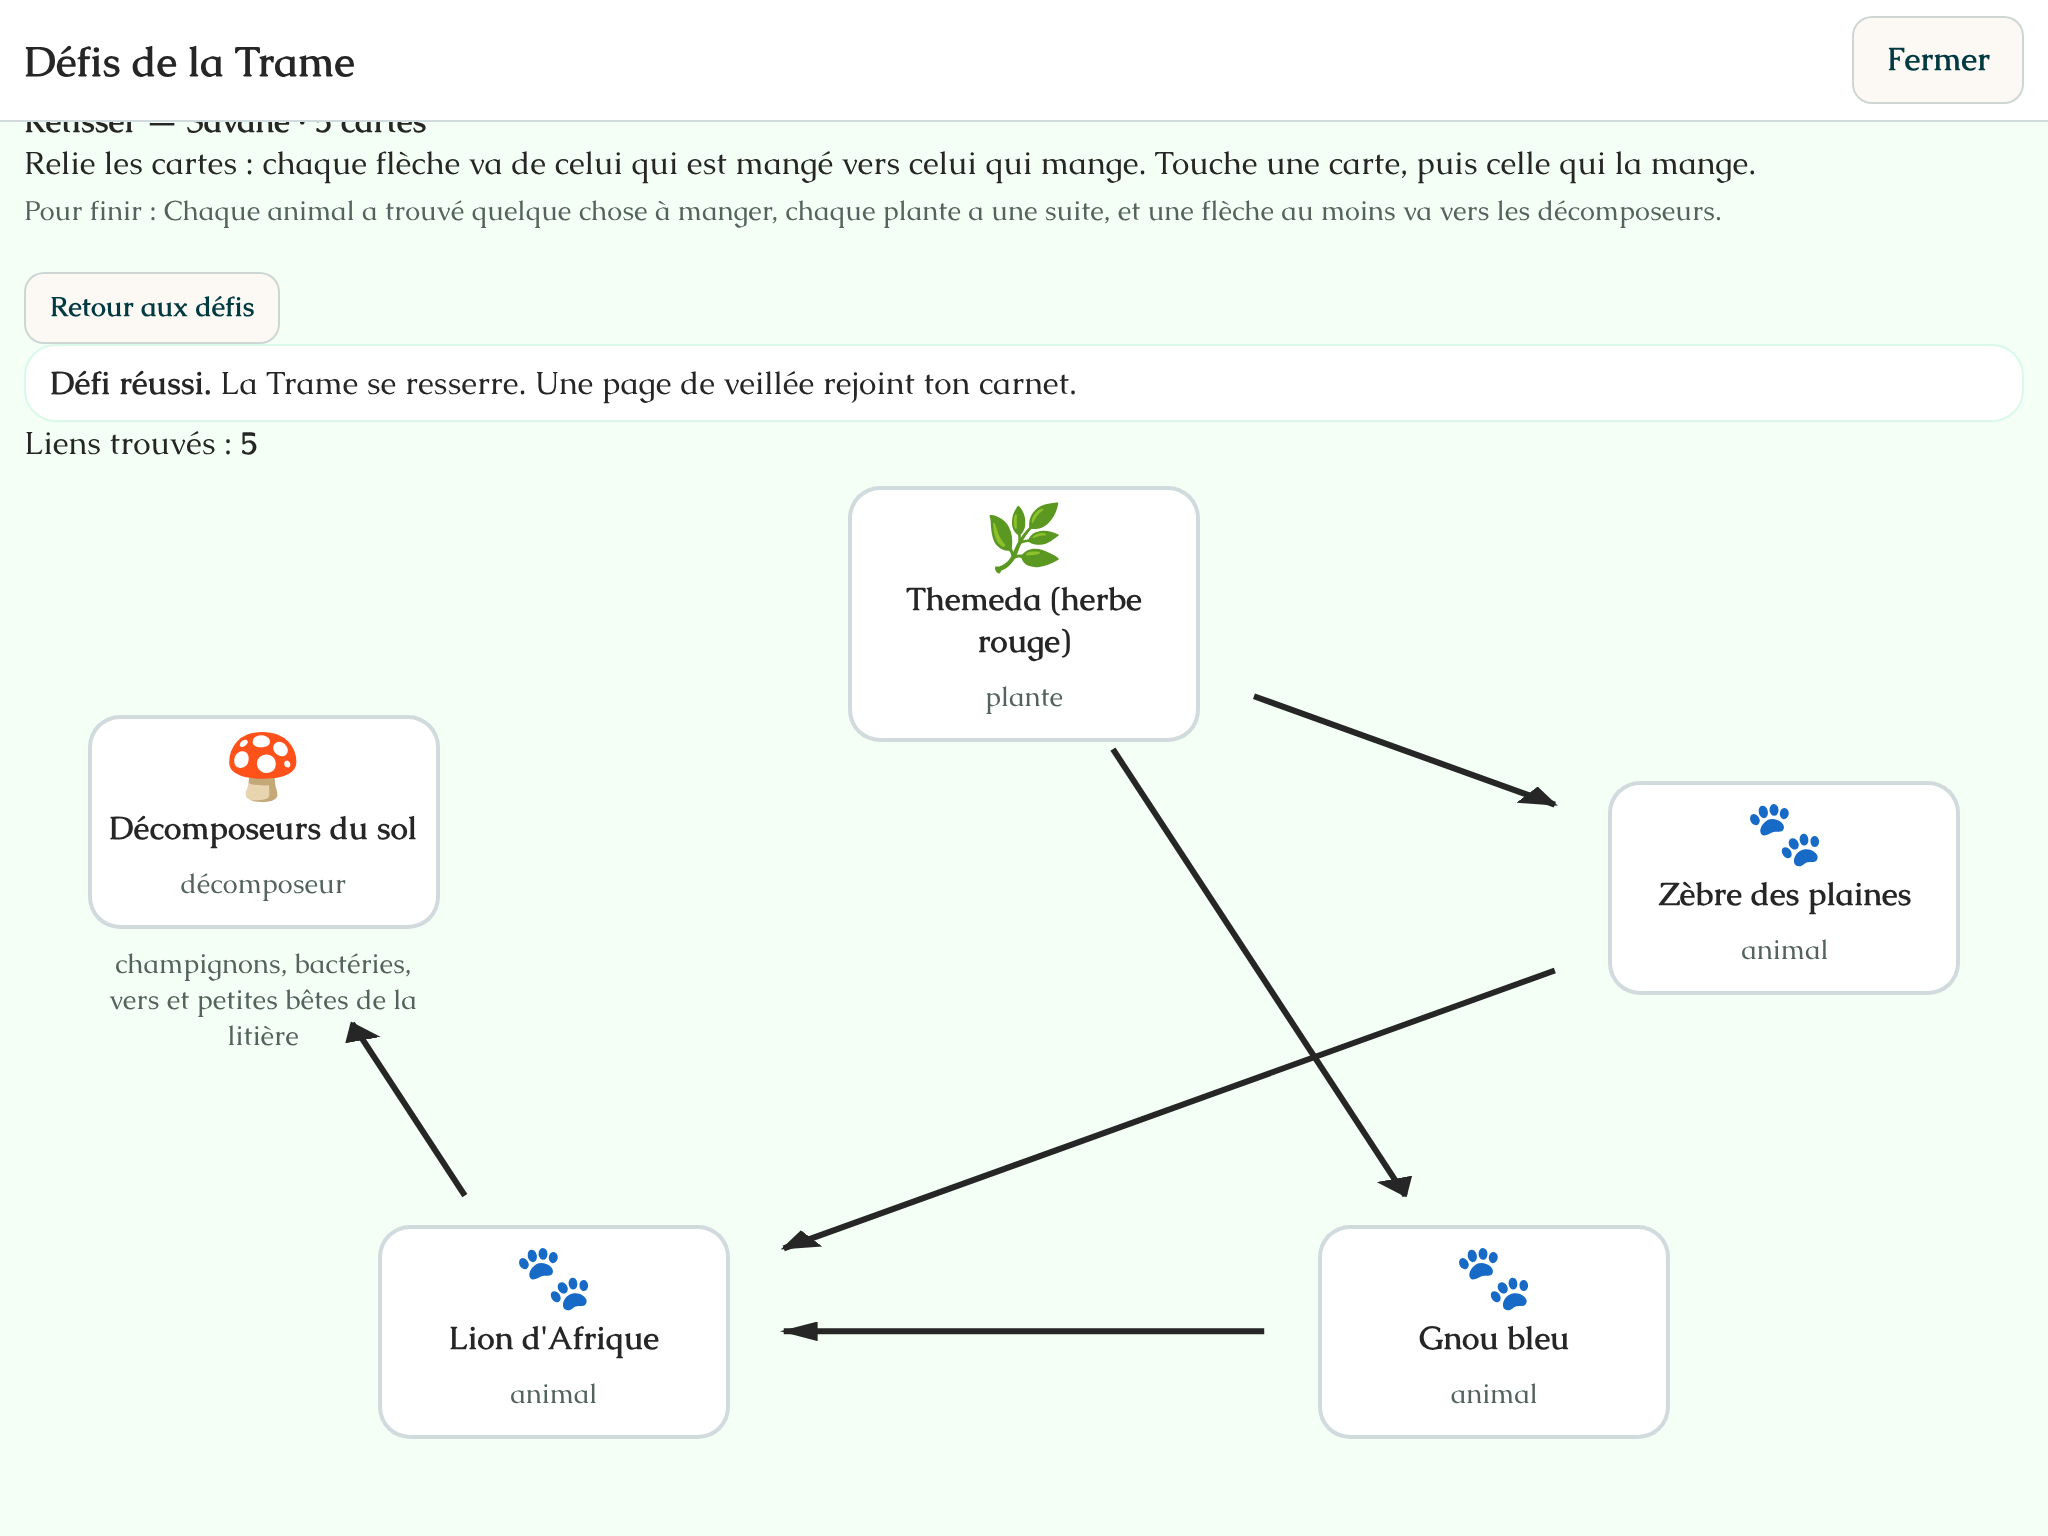
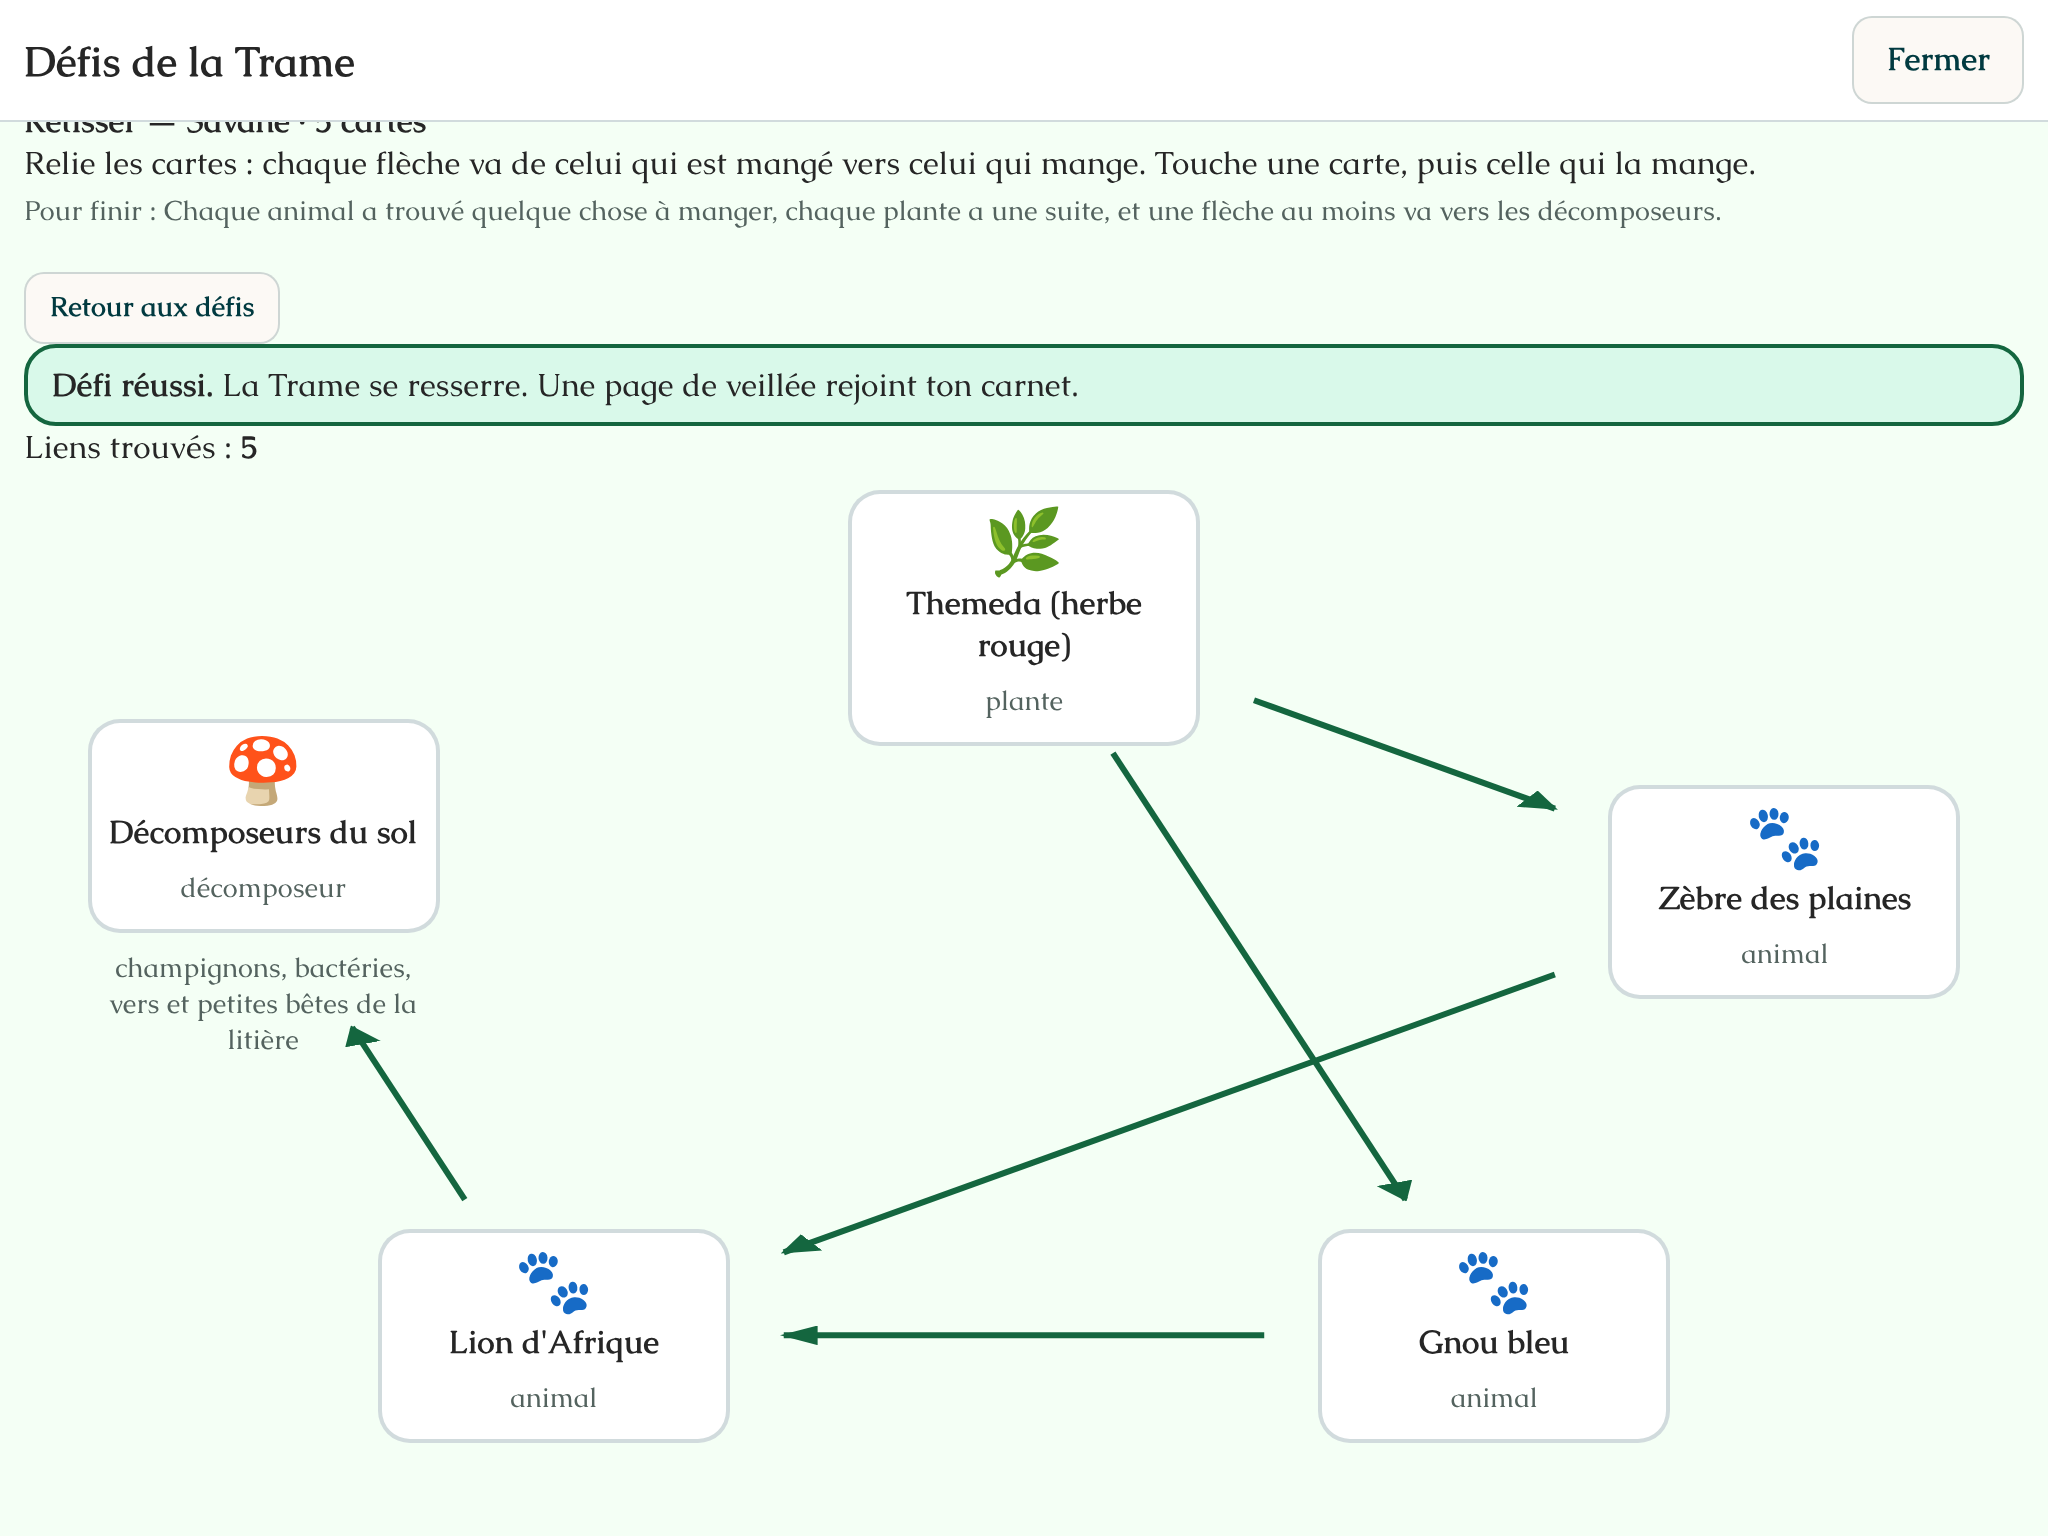
feat(gl): étape 3.4 (suite) — flèches teintées par classement, lien incertain repris du réseau trophique, réussite visible sans défiler
Lien trouvé en vert d'encre, sens à regarder en tirets ambrés, « à discuter » et lien d'indice en teinte neutre avec les tirets de foodWebEdgeStyle (lien incertain). Jamais de rouge ; pictogramme et libellé doublent toujours la teinte.

Claude-Session: https://claude.ai/code/session_01KYTRNbWCaSRTcap5VZ7LGA

diff --git a/src/gl/styles/gl-tenir.css b/src/gl/styles/gl-tenir.css
@@ -821,7 +821,8 @@
   background: var(--gl-surface);
 }
 .gl-defi__reussi {
-  border-color: var(--gl-accent-success);
+  border: 2px solid var(--gl-ink-success);
+  background: var(--gl-accent-success);
 }
 .gl-defis__liste {
   display: flex;
@@ -943,18 +944,48 @@
   opacity: 0.55;
 }
 .gl-trame-trait.is-trouvee {
+  stroke: var(--gl-ink-success);
   stroke-width: 3;
   opacity: 1;
 }
-.gl-trame-trait.is-inversee,
-.gl-trame-trait.is-suggestion {
-  stroke-dasharray: 6 5;
+/* À regarder : tirets et teinte ambrée — jamais de rouge, l'erreur ne punit pas. */
+.gl-trame-trait.is-inversee {
+  stroke: var(--gl-ink-warning);
+  stroke-dasharray: 9 5;
+  opacity: 1;
 }
-.gl-trame-trait.is-a_discuter {
-  stroke-dasharray: 2 4;
+/* « À discuter » et lien d'indice : teinte neutre ; les tirets viennent de foodWebEdgeStyle. */
+.gl-trame-trait.is-a_discuter,
+.gl-trame-trait.is-suggestion {
+  stroke: var(--gl-color-text-muted);
 }
 .gl-trame-pointe {
   fill: currentColor;
+}
+.gl-trame-pointe.is-trouvee {
+  fill: var(--gl-ink-success);
+}
+.gl-trame-pointe.is-inversee {
+  fill: var(--gl-ink-warning);
+}
+.gl-trame-pointe.is-a_discuter,
+.gl-trame-pointe.is-suggestion {
+  fill: var(--gl-color-text-muted);
+}
+.gl-trame-fleche {
+  padding-left: var(--gl-space-2);
+  border-left: 4px solid var(--gl-border);
+}
+.gl-trame-fleche.is-trouvee {
+  border-left-color: var(--gl-ink-success);
+}
+.gl-trame-fleche.is-inversee {
+  border-left-style: dashed;
+  border-left-color: var(--gl-ink-warning);
+}
+.gl-trame-fleche.is-a_discuter {
+  border-left-style: dotted;
+  border-left-color: var(--gl-color-text-muted);
 }
 .gl-trame-legende,
 .gl-trame-liste,

diff --git a/src/gl/components/defis/GLTrameBoard.jsx b/src/gl/components/defis/GLTrameBoard.jsx
@@ -1,4 +1,18 @@
 import { useEffect, useMemo, useState } from 'react';
+import {
+  EVIDENCE_HYPOTHESIS_DASH,
+  EVIDENCE_HYPOTHESIS_OPACITY,
+} from '../../../shared/foodWebEdgeStyle.js';
+
+/**
+ * Trait d'un lien « incertain » : la convention du réseau trophique de l'app (tirets courts et
+ * espacés, trait atténué) sert ici au lien « à discuter » et au lien révélé par un indice.
+ */
+const TRAIT_INCERTAIN = Object.freeze({
+  strokeDasharray: EVIDENCE_HYPOTHESIS_DASH,
+  opacity: EVIDENCE_HYPOTHESIS_OPACITY,
+});
+const estIncertain = (classement) => classement === 'a_discuter' || classement === 'suggestion';
 
 /** Pictogramme et libellé d'un classement : rien n'est porté par la couleur seule. */
 export const TRAME_CLASSEMENT_UI = Object.freeze({
@@ -284,6 +298,7 @@ export function GLTrameBoard({
                     x2={b.x - dx * t}
                     y2={b.y - dy * t}
                     className={`gl-trame-trait is-${f.classement}`}
+                    style={estIncertain(f.classement) ? TRAIT_INCERTAIN : undefined}
                     markerEnd={`url(#gl-trame-pointe-${f.classement})`}
                     vectorEffect="non-scaling-stroke"
                   />
